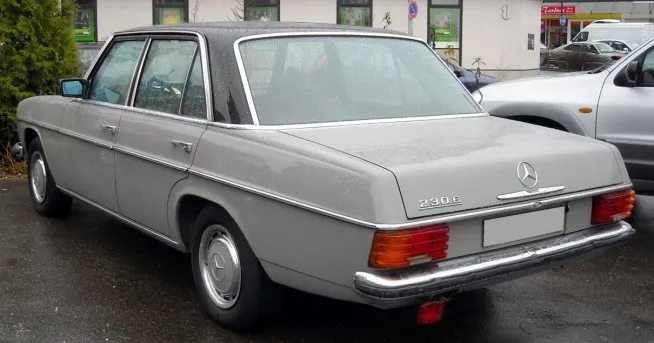
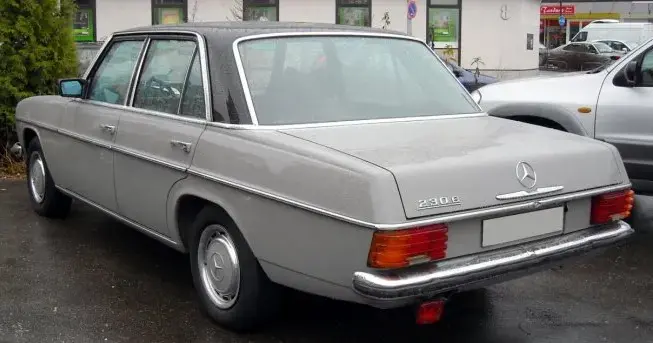
246

diff --git a/pic/ja_mb_img_e.html b/pic/ja_mb_img_e.html
@@ -492,7 +492,7 @@
 						<h5 class="i">Facelift</h5>
 						<p class="i m1">1973</p><br>
 						<a href="full/e/w114_f2.jpg"><img loading="lazy" src="style/e/w114_f2.webp" alt="メルセデス,W114,フロント" width="553" height="343"></a>
-						<a href="full/e/w114_r2.jpg"><img loading="lazy" src="style/e/w114_r2.webp" alt="メルセデス,W114,リヤ" width="654" height="343"></a>
+						<a href="full/e/w114_r2.jpg"><img loading="lazy" src="style/e/w114_r2.webp" alt="メルセデス,W114,リヤ" width="653" height="343"></a>
 						<div>
 							<div class="box44"><br>
 								<a href="full/e/w115_d2.jpg"><img loading="lazy" src="style/e/w115_d2.webp" alt="メルセデス,W115,ダッシュボード" width="488" height="366"></a>

diff --git a/pic/mb_img_e.html b/pic/mb_img_e.html
@@ -492,7 +492,7 @@
 						<h5 class="i">Modellpflege</h5>
 						<p class="i m1">1973</p><br>
 						<a href="full/e/w114_f2.jpg"><img loading="lazy" src="style/e/w114_f2.webp" alt="Mercedes,W114,Frontansicht" width="553" height="343"></a>
-						<a href="full/e/w114_r2.jpg"><img loading="lazy" src="style/e/w114_r2.webp" alt="Mercedes,W114,Rückansicht" width="654" height="343"></a>
+						<a href="full/e/w114_r2.jpg"><img loading="lazy" src="style/e/w114_r2.webp" alt="Mercedes,W114,Rückansicht" width="653" height="343"></a>
 						<div>
 							<div class="box44"><br>
 								<a href="full/e/w115_d2.jpg"><img loading="lazy" src="style/e/w115_d2.webp" alt="Mercedes,W115,Instrumententafel" width="488" height="366"></a>

diff --git a/pic/en_mb_img_e.html b/pic/en_mb_img_e.html
@@ -492,7 +492,7 @@
 						<h5 class="i">Facelift</h5>
 						<p class="i m1">1973</p><br>
 						<a href="full/e/w114_f2.jpg"><img loading="lazy" src="style/e/w114_f2.webp" alt="Mercedes,W114,Front view" width="553" height="343"></a>
-						<a href="full/e/w114_r2.jpg"><img loading="lazy" src="style/e/w114_r2.webp" alt="Mercedes,W114,Rear view" width="654" height="343"></a>
+						<a href="full/e/w114_r2.jpg"><img loading="lazy" src="style/e/w114_r2.webp" alt="Mercedes,W114,Rear view" width="653" height="343"></a>
 						<div>
 							<div class="box44"><br>
 								<a href="full/e/w115_d2.jpg"><img loading="lazy" src="style/e/w115_d2.webp" alt="Mercedes,W115,Dashboard" width="488" height="366"></a>
